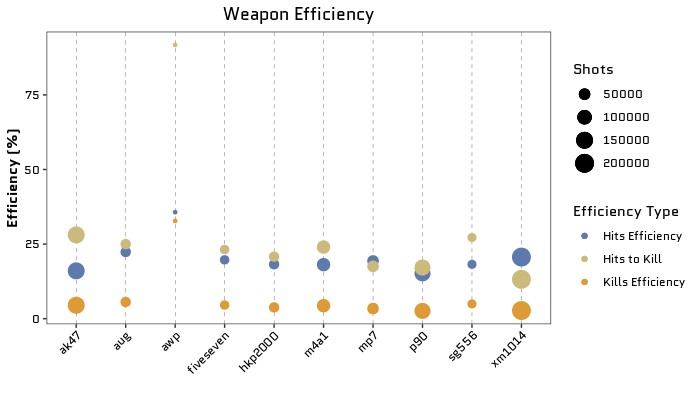
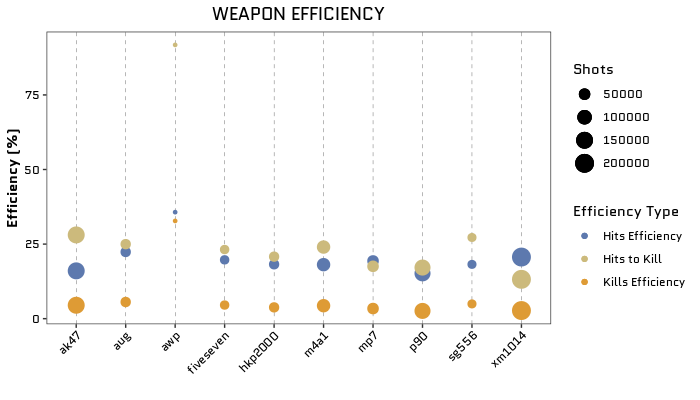
deploy: dd701a3c52f1d8bf31fd6282b5c33593c1d285c0

Changed region(s): [[0.3, 0.0, 0.54, 0.06]]

diff --git a/blog/2021/03/25/csgo-package/index.html b/blog/2021/03/25/csgo-package/index.html
@@ -229,15 +229,14 @@ devtools::install_github(&quot;adsoncostanzifilho/CSGo&quot;)</code></pre>
 </div>
 <div id="example" class="section level2">
 <h2>Example</h2>
-<p>The first step to use the <code>CSGo</code> package is to have your own credentials (API key) to pull the CSGo data from the Steam API.</p>
-<p>For more information about how to get your own API Key run in your R <code>vignette("auth", package = "CSGo")</code>, or click <a href="https://cran.r-project.org/web/packages/CSGo/vignettes/auth.html">here</a>.</p>
-<p>Now that you already have your API Key you should be able to collect your own CSGo data as well as your friends’ data. I hope my friend <a href="https://github.com/Rodrigo-Fontoura">Rodrigo</a> doesn’t mind us playing with his data (he is the ‘76561198263364899’)!</p>
-<p>First let’s collect his CSGo data:</p>
+<p>The first step to use the <code>CSGo</code> package is to have your own credentials (API key) to pull the CSGo data from the Steam API. For more information about how to get your own API Key run in your R <code>vignette("auth", package = "CSGo")</code>, or click <a href="https://cran.r-project.org/web/packages/CSGo/vignettes/auth.html">here</a>.</p>
+<p>Now that you already have your <em>API Key</em> you should be able to collect your own CSGo data as well as your friends’ data. I hope my friend <a href="https://github.com/Rodrigo-Fontoura">Rodrigo</a> doesn’t mind us playing with his data (he is the ‘76561198263364899’)!</p>
+<p>First let’s collect his CSGo statistics:</p>
 <pre class="r"><code>library(CSGo)
 
 # to get the statistics of the user 76561198263364899
 rodrigo_stats &lt;- get_stats_user(api_key = &#39;your_key&#39;, user_id = &#39;76561198263364899&#39;)</code></pre>
-<p>Let’s just filter the data frame by “kills” and “weapon” to see the kills by weapon.</p>
+<p>Let’s just filter the obtained data frame by “kills” and “weapon” to create an analysis of kills by type of weapon.</p>
 <pre class="r"><code>library(dplyr)
 library(stringr)
 
@@ -248,7 +247,7 @@ rodrigo_weapon_kill &lt;- rodrigo_stats %&gt;%
   ) %&gt;%
   arrange(desc(value))</code></pre>
 <p>Now let’s take a look at the graphic!</p>
-<p><em>PS</em>: The <code>theme_csgo</code> and <code>scale_fill_csgo</code> are only available on the development version of the CSGo package!</p>
+<p><em>PS</em>: The <code>theme_csgo</code>, <code>scale_fill_csgo</code>, and <code>scale_color_csgo</code> are only available on the development version of the CSGo package!</p>
 <pre class="r"><code>library(ggplot2)
 library(showtext)
 
@@ -268,7 +267,7 @@ rodrigo_weapon_kill %&gt;%
 <p><img src="/img/csgo_package/kills_weapon.png" style="width:100.0%" /></p>
 <p>So, these are the top 10 weapons by kills, but.. What about the efficiency? Is the <strong>ak47</strong> the Rodrigo’s more efficient weapon? First, let’s define “efficiency”:</p>
 <ul>
-<li><p><strong>kills_efficiency</strong> means how many shots I did to kill (ex: 32% shots will kill)</p></li>
+<li><p><strong>kills_efficiency</strong> means how many shots he did to kill (ex: 32% shots will kill)</p></li>
 <li><p><strong>hits_efficiency</strong> means how many shots to have a hit, this is more related to Rodrigo’s ability with each weapon (ex: 35% of the shots will hit).</p></li>
 <li><p><strong>hits_to_kill</strong> means how many hits are necessary to kill, this is more related to the weapon power/efficiency (ex: 91% of the hits will kills).</p></li>
 </ul>
@@ -563,7 +562,7 @@ m4a1
   geom_point(aes(y = kills_efficiency, color = &quot;Kills Efficiency&quot;)) +
   geom_point(aes(y = hits_efficiency, color = &quot;Hits Efficiency&quot;)) +
   geom_point(aes(y = hits_to_kill, color = &quot;Hits to Kill&quot;)) +
-  ggtitle(&quot;Weapon Efficiency&quot;) +
+  ggtitle(&quot;WEAPON EFFICIENCY&quot;) +
   ylab(&quot;Efficiency (%)&quot;) +
   xlab(&quot;&quot;) +
   labs(color = &quot;Efficiency Type&quot;, size = &quot;Shots&quot;) +
@@ -573,7 +572,7 @@ m4a1
   ) +
   scale_color_csgo()</code></pre>
 <p><img src="/img/csgo_package/weapon_effic.png" style="width:100.0%" />
-In conclusion, I would advise Rodrigo to use the <strong>awp</strong> in his next games, beacuse this weapon presented the best efficiency in terms of <strong>shots to kill</strong>, <strong>shots to hit</strong>, and <strong>hits to kill</strong>. But we definitely need more shots with this weapon to see if this efficiency remains.. hahahaha</p>
+In conclusion, I would advise Rodrigo to use the <strong>awp</strong> in his next games, because this weapon presented the best efficiency in terms of <strong>shots to kill</strong>, <strong>shots to hit</strong>, and <strong>hits to kill</strong>. But we definitely need more shots with this weapon to see if this efficiency remains.. hahahaha</p>
 </div>
 
                         </div>
